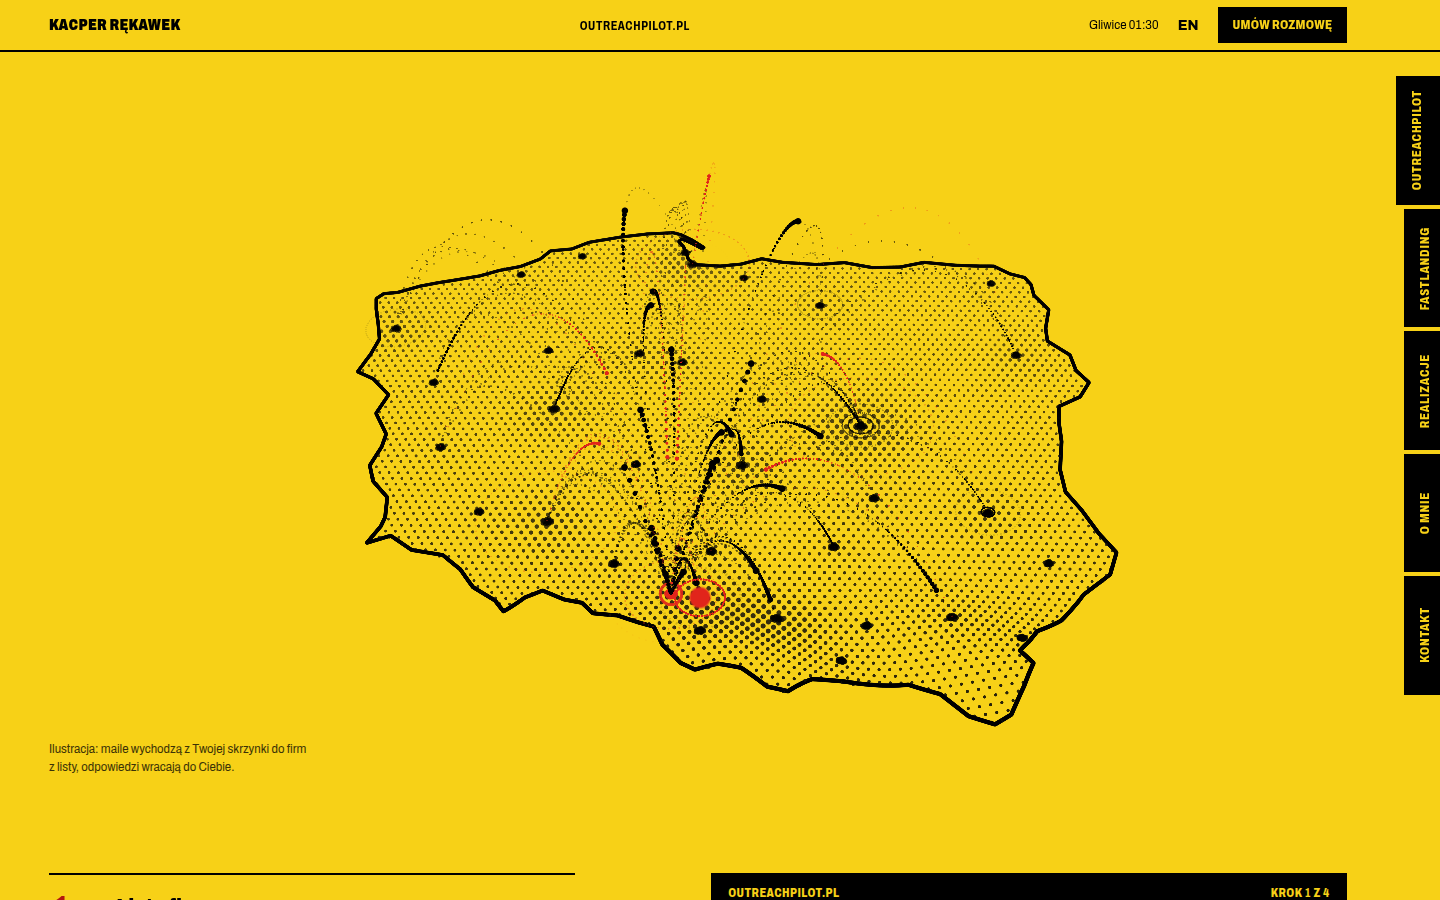
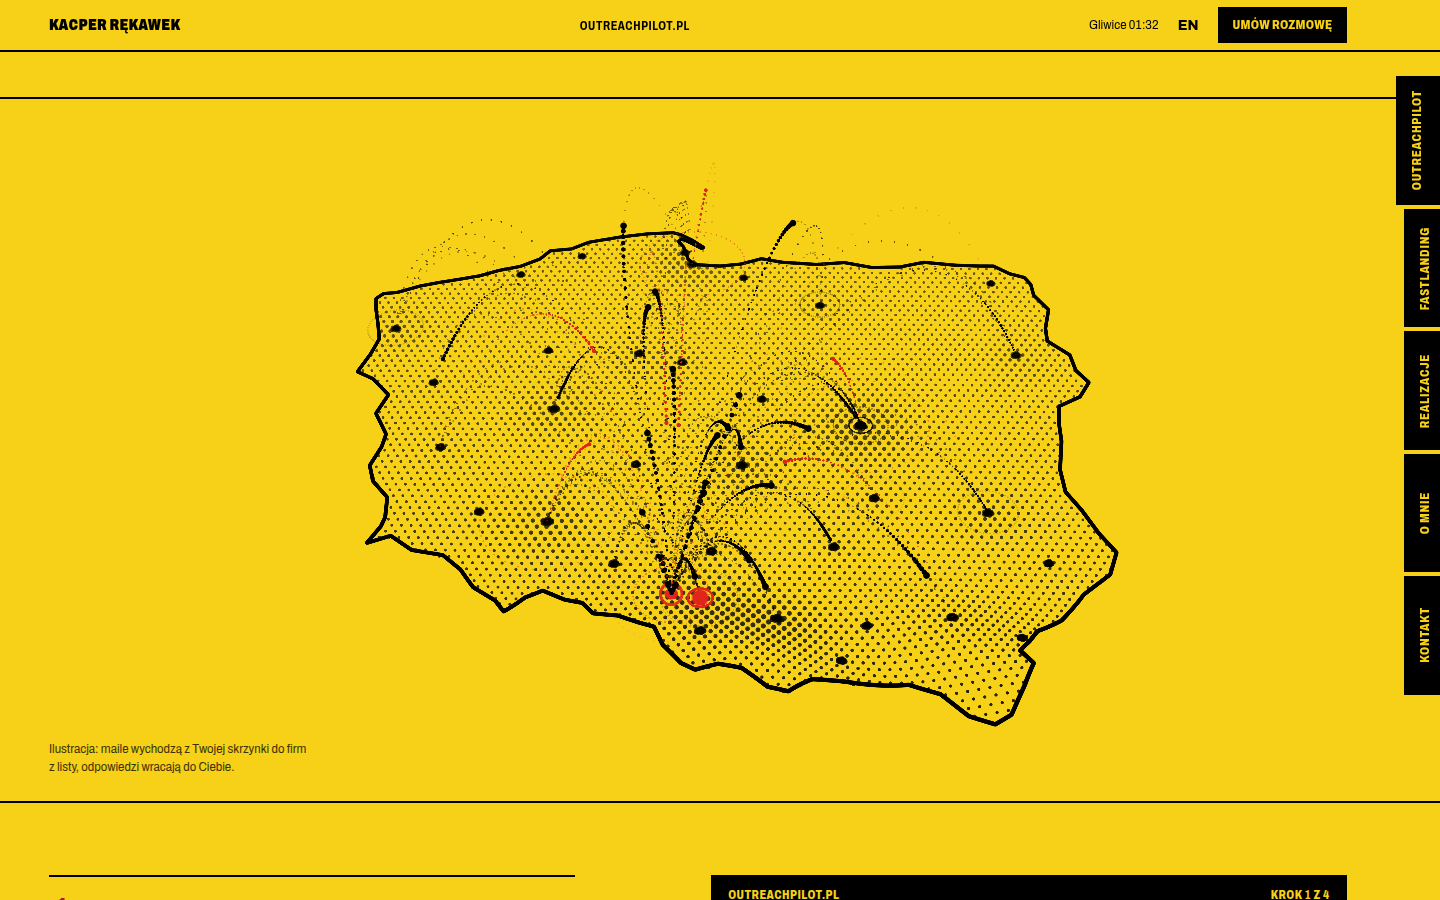
Sheet rules frame the map window, EN units stay with their numbers
- The sheets above and below the OutreachPilot map window carry a 2px ink rule, so the map passes under paper
- typo(): English units (days, minutes, hours, weeks, months, companies, firms, emails) bind to their numbers
- Review captures refreshed

Claude-Session: https://claude.ai/code/session_01PECqvRYuMqha9srKUyUX4Z

diff --git a/src/lib/typo.ts b/src/lib/typo.ts
@@ -1,7 +1,7 @@
 /**
  * Polish micro-typography, applied to every copy string at build time.
  * - no single-letter word at a line end (a, i, o, u, w, z and capitals): the space after it becomes a no-break space
- * - numbers stay glued to their units and to their thousand groups ("1 499 zł", "7 dni", "30 minut")
+ * - numbers stay glued to their units and to their thousand groups ("1 499 zł", "7 dni", "30 minut", "14 days")
  * - em dashes are banned in copy; this throws in dev so they cannot sneak back in
  * Strings may contain simple inline HTML (<strong>, <br>): the regexes never touch text inside tags.
  */
@@ -10,7 +10,7 @@ const WJ = '\u2060'; // word joiner
 
 const SINGLE = /(^|[\s(„>])([aiouwzAIOUWZ])\s+/g;
 const THOUSANDS = /(\d)[   ](\d{3})(?!\d)/g;
-const UNITS = /(\d)\s+(zł|PLN|dni|dnia|min|minut|godzin|h|%|×|mies\.|osób|firm|maili|kampanii|wpisów|narzędzi|leadów|wiadomości|znaków|zł\/mies\.|m²)(?=[\s.,;:)!? ]|$)/g;
+const UNITS = /(\d)\s+(zł|PLN|dni|dnia|min|minut|godzin|h|%|×|mies\.|osób|firm|maili|kampanii|wpisów|narzędzi|leadów|wiadomości|znaków|zł\/mies\.|m²|days?|minutes?|hours?|weeks?|months?|companies|firms|emails)(?=[\s.,;:)!? ]|$)/g;
 const RANGE = /(\d)–(?!\u2060)(\d)/g;
 const PREFIX_UNITS = /\b(od|do|ok\.|nr|str\.|PLN|USD|GBP|€|\$)\s+(?=\d)/g;
 const SHORT_WORDS_PL = /(^|[\s(„>])(do|od|na|po|we|ze|ku|co|to|że|by|go|mu|mi|ci|Ci|się|nie|lub|oraz|jak|bez|dla|pod|nad|przy)\s+(?=\S)/g;
